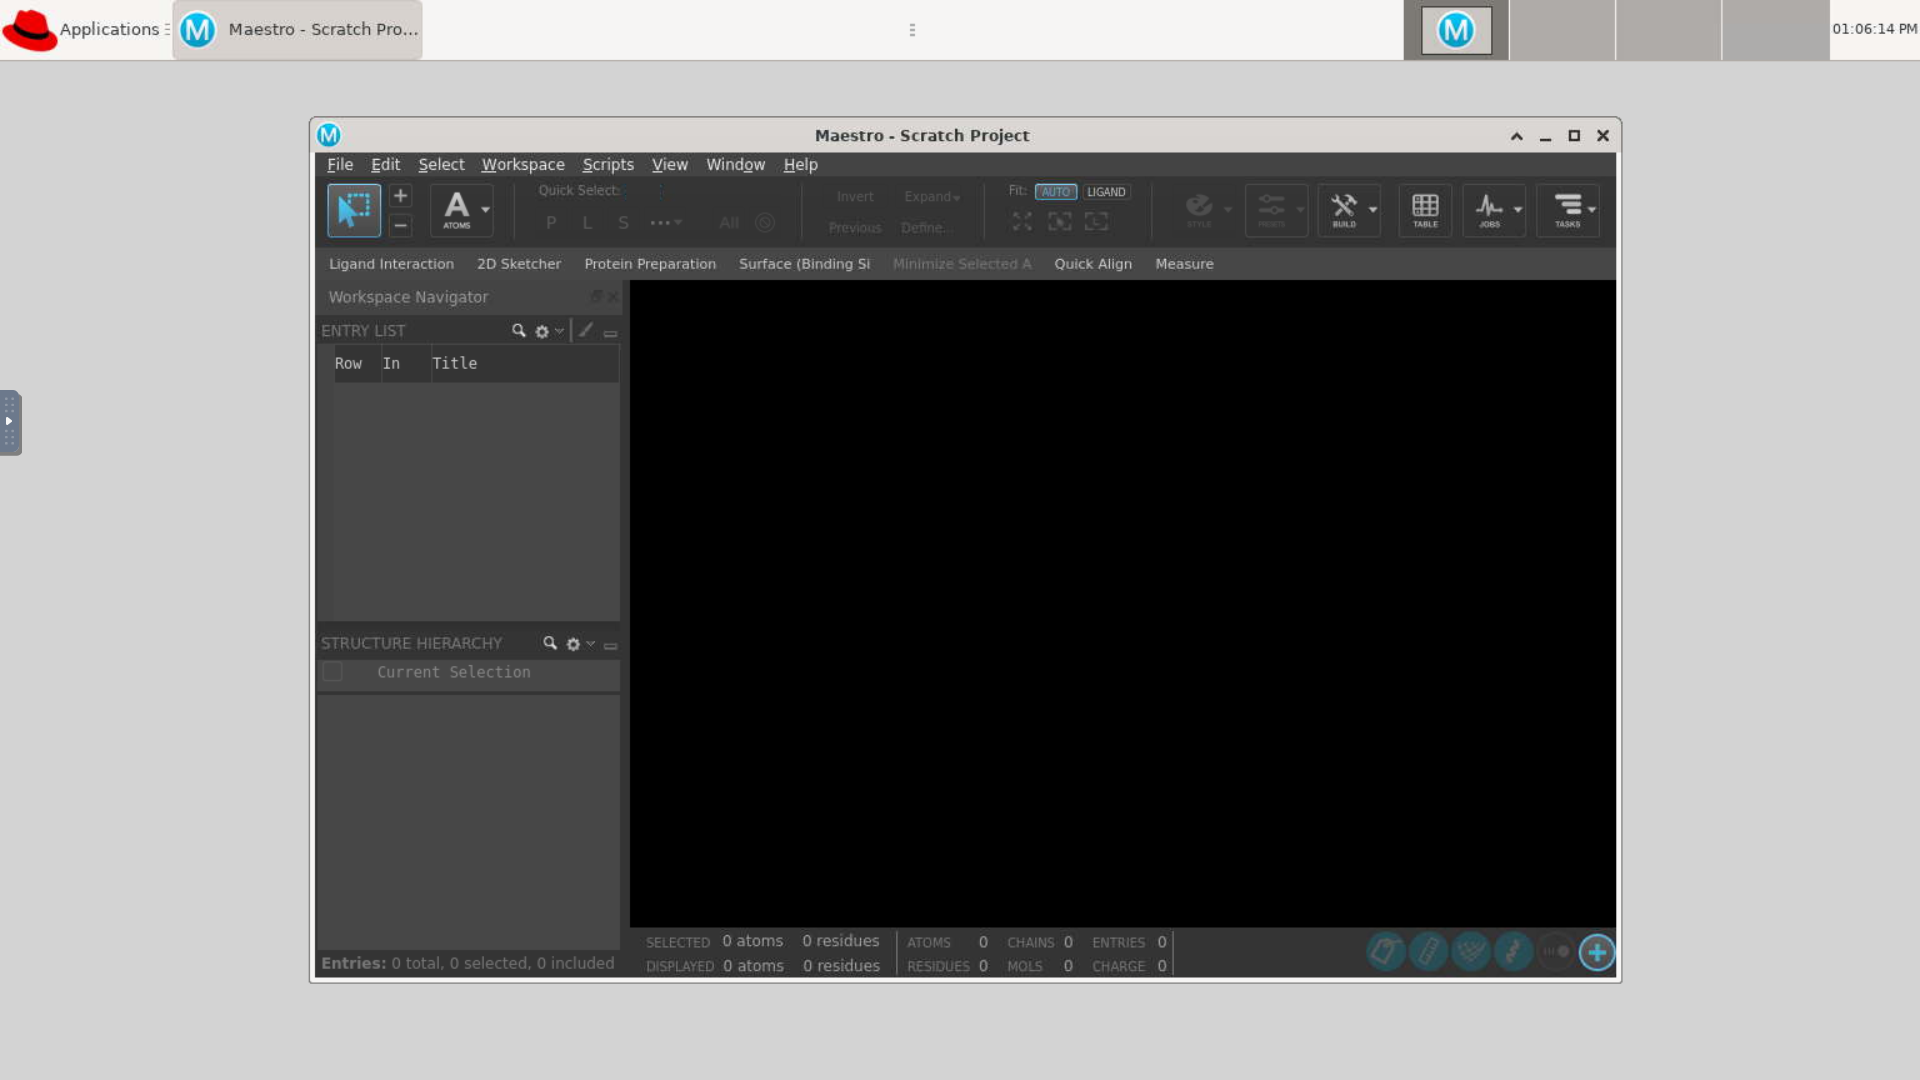
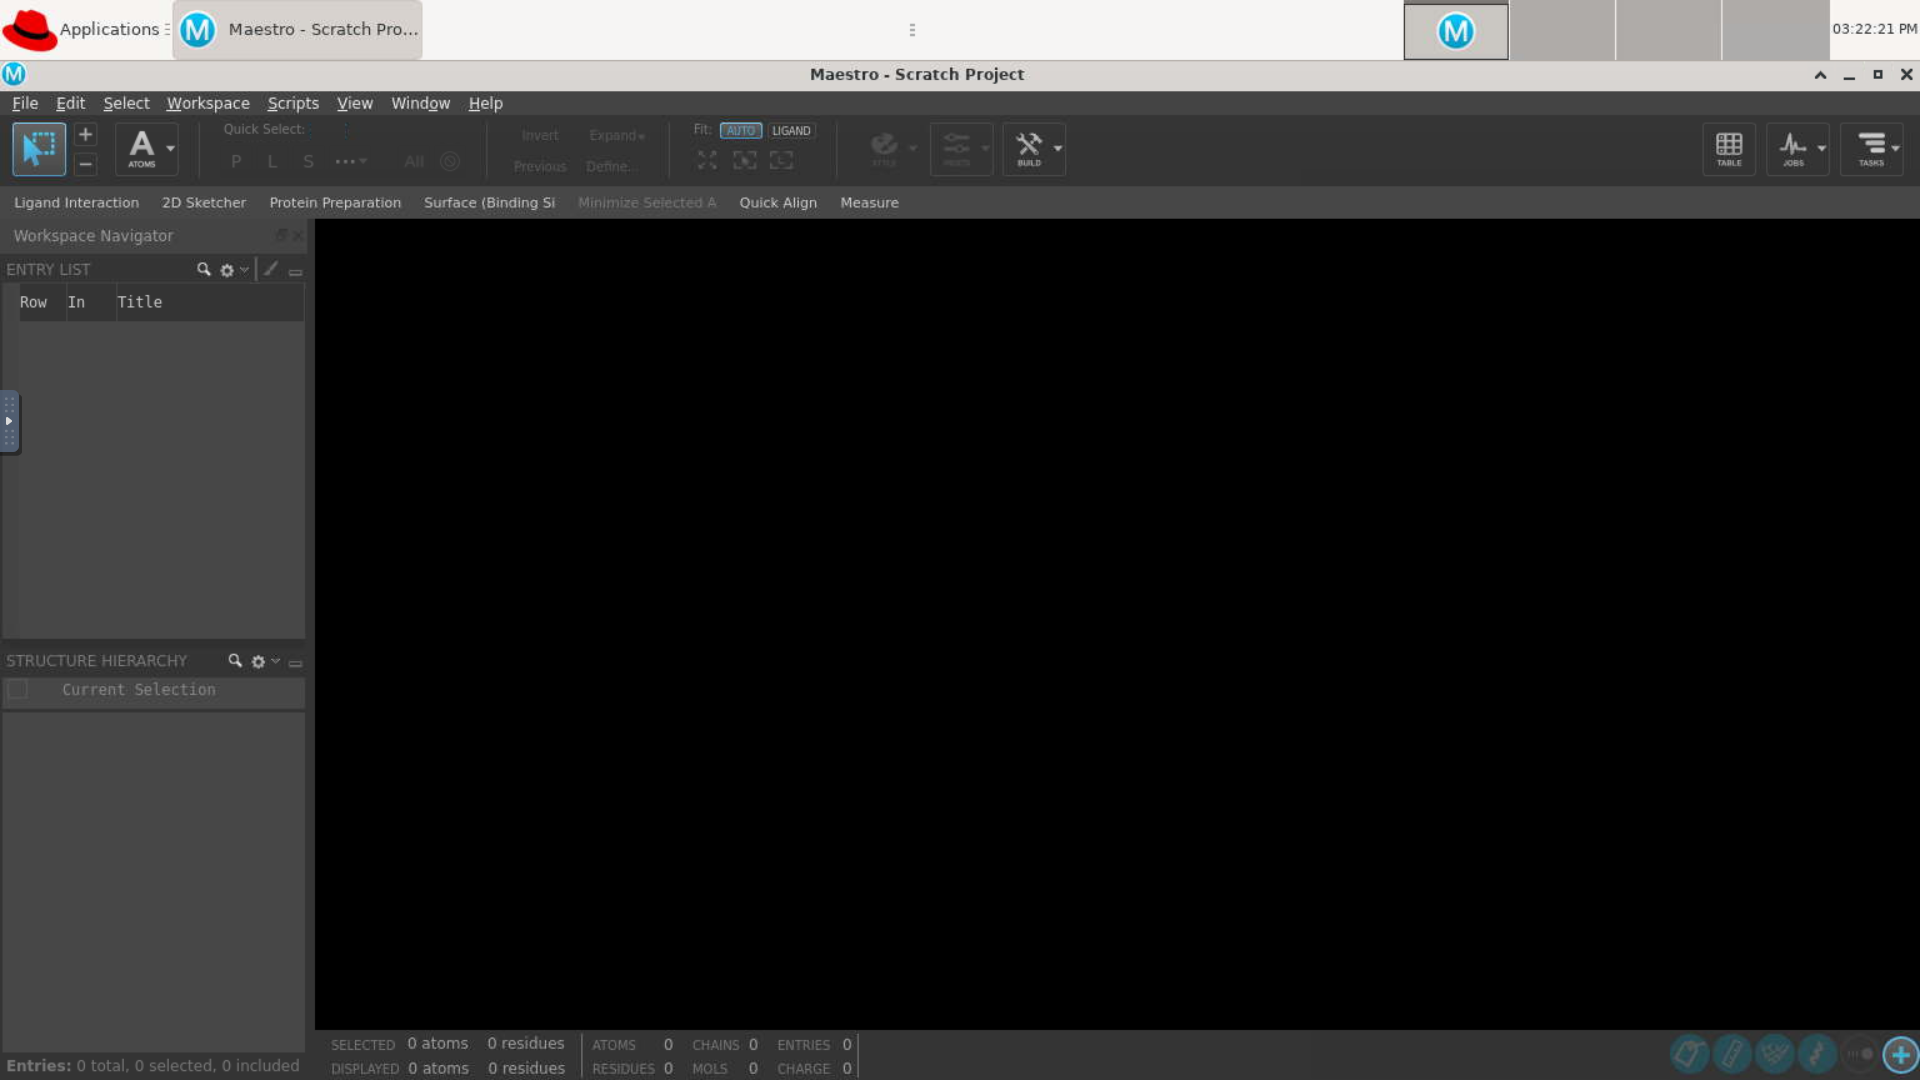
Fixed formatting in README

diff --git a/README.md b/README.md
@@ -31,7 +31,10 @@ For VNC server support:
 - [TurboVNC] 2.1+
 - [websockify] 0.8.0+
 
-For hardware rendering support: - [VirtualGL] 2.3+ [VirtualGL]: https://virtualgl.org/
+For hardware rendering support: 
+- [VirtualGL] 2.3+ 
+
+[VirtualGL]: https://virtualgl.org/
 [Lmod]: https://www.tacc.utexas.edu/research-development/tacc-projects/lmod
 [Xfce Desktop]: https://xfce.org/
 [Schrodinger]: https://www.schrodinger.com/
@@ -56,8 +59,7 @@ git checkout v0.6.0
 ```
 
 You will not need to do anything beyond this as all necessary assets are
-installed. You will also not need to restart this app as it isn't a Passenger
-app.
+installed. You will also not need to restart this app as it isn't a Passenger app.
 
 To update the app you would:
 
@@ -75,8 +77,8 @@ Edit `form.yml` and update these values for your cluster:
 
 | Attribute | Default | Change to |
 |-----------|---------|-----------|
-| `cluster` | `"cardinal"` | Your cluster name(s) |
-| `schrodinger_version` | `"2024.3"`, `"2023.2"` | Schrodinger versions on your system via schrodinger/ module |
+| `cluster` | `cardinal` | Your cluster name(s) |
+| `schrodinger_version` | `2024.3`, `2023.2` | Schrodinger versions on your system via schrodinger/ module |
 | `node_type` | OSC-specific node types | Node types available on your cluster |
 
 ### 3. Verify
@@ -89,18 +91,19 @@ No OOD restart is needed (Batch Connect apps are detected automatically). Visit 
 
 | Attribute | Description | Default |
 |-----------|-------------|---------|
-| `cluster` | Target cluster ID | `"cardinal"` |
+| `cluster` | Target cluster ID | `cardinal` |
 | `schrodinger_version` | Schrodinger version to launch via schrodinger/ module| 2024.3 |
 | `bc_num_hours` | Maximum wall time (hours) | 1 |
 | `bc_num_slots` | Number of scheduler slots requested (number of nodes) | 1 | 
 | `num_cores` | Number of CPU cores (1--96, varies by node type/cluster) | 1 |
-| `node_type` | Compute node type (any, vis, hugemem) | `"any"` |
+| `node_type` | Compute node type (any, vis, hugemem) | `any` |
 | `licenses` | String with specified licenses for macromodel, glide, ligprep, qikprep, or epik features. | |
 | `bc_vnc_resolution` | Resolution of VNC desktop session | 1228 x 691 |
 
 ### Environment variables
 
 | Variable | Required | Description |
+|-----------|-------------|---------|
 | SCHRODINGER | Yes | Path to Schrodinger installation root |
 | LM_LICENSE_FILE | Yes | License server or file for Schrodinger |
 | VGL_DISPLAY | No | VirtualGL display for GPU rendering |
